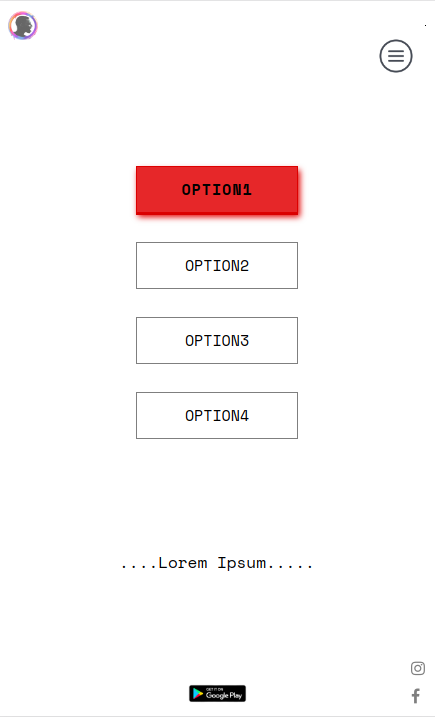
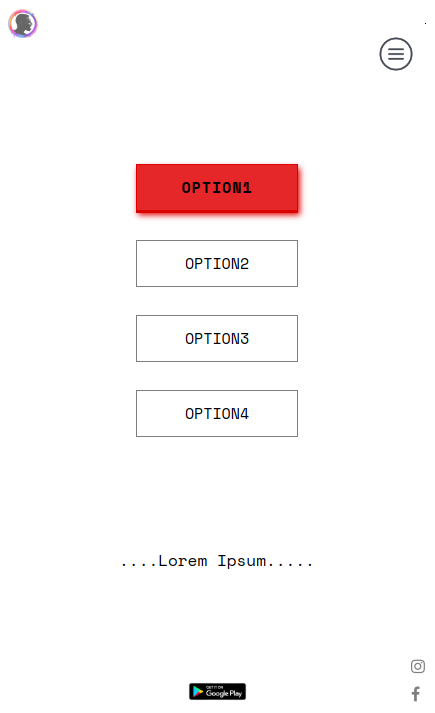
added tweet image and changes image settings

diff --git a/README.md b/README.md
@@ -6,6 +6,10 @@ To View My Portfolio Click Here Below :point_down:
 
 [Zecollo's Portfolio](https://zecollokaris.github.io)  
 
+To View Feel Design Click Here Below :point_down:
+
+[Zecollo's Portfolio](https://zecollokaris.github.io) 
+
 ## WEBSITE DESIGN!
 
 <p align="center">
@@ -16,4 +20,8 @@ To View My Portfolio Click Here Below :point_down:
 <p align="center">
 <img align="left" width="250" src="Spec.md/mobile1.png" alt="Mobile Design" />
 <img align="right" width="250" src="Spec.md/mobile2.png" alt="Mobile Menu Design" />
+<p>
+
+<p align="center">
+<img align="center" width="250" src="Spec.md/tweet.png" alt="Tweet"/>
 <p>
